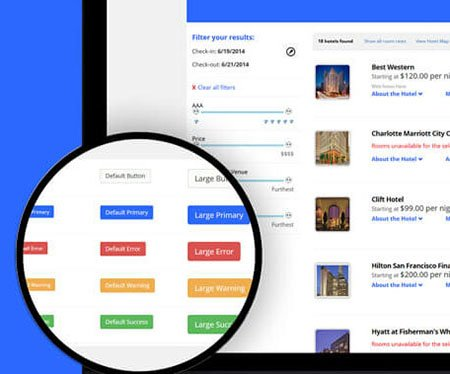
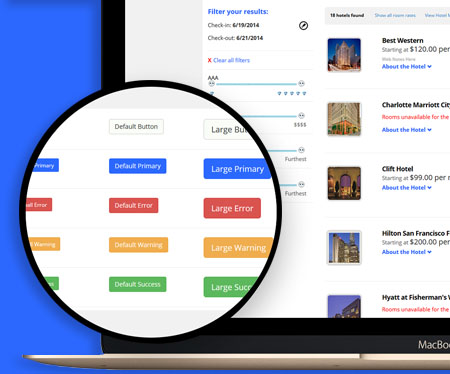
Update About section to Element84 as current workplace

diff --git a/_site/Careers/index.html b/_site/Careers/index.html
@@ -224,17 +224,17 @@
             </div>
             <div class="row justify-content-center">
                 <div class="col-lg-6">
-                    <p>I've been designing for the web for over 6 years, and absolutely love what I do. I believe that good design is a universal solution, not just the flavor of the month.</p>
-                    <p>I currently work at SPARGO, Inc. where I collaborate with a wide array of departments and clients to to get a full understanding of the stakeholder's needs before designing solutions using UI/UX best practices. In addition to the standard design tools like Adobe Creative Suite and Sketch, I also write HTML/CSS and even a little JS on a regular basis in order to provide clickable, and even implementable prototypes and wireframes.</p>
+                    <p>I've been designing for the web for over 7 years, and absolutely love what I do. I believe that good design is a universal solution, not just the flavor of the month.</p>
+                    <p>I currently work as a UX Engineer at <a href="http://element84.com" target="_blank">Element84</a>, where I collaborate with a wide array of departments and clients to to get a full understanding of the stakeholder's needs before designing solutions using UI/UX best practices. In addition to the standard design tools like Adobe Creative Suite and Sketch, I also write HTML, CSS, and JavaScript in order to provide clickable, and even implementable prototypes and wireframes.</p>
                 </div>
                 <div class="col-lg-4">
                     <ul>
-                        <li><strong>HTML, CSS</strong> <span class="badge badge-light">7 years</span></li>
-                        <li><strong>Adobe Suite</strong> <span class="badge badge-light">7 years</span></li>
-                        <li><strong>User-Centered Design</strong> <span class="badge badge-light">3 years</span></li>
+                        <li><strong>HTML, CSS</strong> <span class="badge badge-light">7+ years</span></li>
+                        <li><strong>Adobe Suite</strong> <span class="badge badge-light">7+ years</span></li>
+                        <li><strong>User-Centered Design</strong> <span class="badge badge-light">3.5 years</span></li>
                         <li><strong>JavaScript</strong> <span class="badge badge-light">4 years</span></li>
-                        <li><strong>Rapid Prototyping</strong> <span class="badge badge-light">3 years</span></li>
-                        <li><strong>Sketch</strong> <span class="badge badge-light">1.5 years</span></li>
+                        <li><strong>Rapid Prototyping</strong> <span class="badge badge-light">3.5 years</span></li>
+                        <li><strong>Sketch</strong> <span class="badge badge-light">2 years</span></li>
                     </ul>
                 </div>
                

diff --git a/_site/LifePreserver/index.html b/_site/LifePreserver/index.html
@@ -224,17 +224,17 @@
             </div>
             <div class="row justify-content-center">
                 <div class="col-lg-6">
-                    <p>I've been designing for the web for over 6 years, and absolutely love what I do. I believe that good design is a universal solution, not just the flavor of the month.</p>
-                    <p>I currently work at SPARGO, Inc. where I collaborate with a wide array of departments and clients to to get a full understanding of the stakeholder's needs before designing solutions using UI/UX best practices. In addition to the standard design tools like Adobe Creative Suite and Sketch, I also write HTML/CSS and even a little JS on a regular basis in order to provide clickable, and even implementable prototypes and wireframes.</p>
+                    <p>I've been designing for the web for over 7 years, and absolutely love what I do. I believe that good design is a universal solution, not just the flavor of the month.</p>
+                    <p>I currently work as a UX Engineer at <a href="http://element84.com" target="_blank">Element84</a>, where I collaborate with a wide array of departments and clients to to get a full understanding of the stakeholder's needs before designing solutions using UI/UX best practices. In addition to the standard design tools like Adobe Creative Suite and Sketch, I also write HTML, CSS, and JavaScript in order to provide clickable, and even implementable prototypes and wireframes.</p>
                 </div>
                 <div class="col-lg-4">
                     <ul>
-                        <li><strong>HTML, CSS</strong> <span class="badge badge-light">7 years</span></li>
-                        <li><strong>Adobe Suite</strong> <span class="badge badge-light">7 years</span></li>
-                        <li><strong>User-Centered Design</strong> <span class="badge badge-light">3 years</span></li>
+                        <li><strong>HTML, CSS</strong> <span class="badge badge-light">7+ years</span></li>
+                        <li><strong>Adobe Suite</strong> <span class="badge badge-light">7+ years</span></li>
+                        <li><strong>User-Centered Design</strong> <span class="badge badge-light">3.5 years</span></li>
                         <li><strong>JavaScript</strong> <span class="badge badge-light">4 years</span></li>
-                        <li><strong>Rapid Prototyping</strong> <span class="badge badge-light">3 years</span></li>
-                        <li><strong>Sketch</strong> <span class="badge badge-light">1.5 years</span></li>
+                        <li><strong>Rapid Prototyping</strong> <span class="badge badge-light">3.5 years</span></li>
+                        <li><strong>Sketch</strong> <span class="badge badge-light">2 years</span></li>
                     </ul>
                 </div>
                

diff --git a/_site/SPARGOFeatures/index.html b/_site/SPARGOFeatures/index.html
@@ -224,17 +224,17 @@
             </div>
             <div class="row justify-content-center">
                 <div class="col-lg-6">
-                    <p>I've been designing for the web for over 6 years, and absolutely love what I do. I believe that good design is a universal solution, not just the flavor of the month.</p>
-                    <p>I currently work at SPARGO, Inc. where I collaborate with a wide array of departments and clients to to get a full understanding of the stakeholder's needs before designing solutions using UI/UX best practices. In addition to the standard design tools like Adobe Creative Suite and Sketch, I also write HTML/CSS and even a little JS on a regular basis in order to provide clickable, and even implementable prototypes and wireframes.</p>
+                    <p>I've been designing for the web for over 7 years, and absolutely love what I do. I believe that good design is a universal solution, not just the flavor of the month.</p>
+                    <p>I currently work as a UX Engineer at <a href="http://element84.com" target="_blank">Element84</a>, where I collaborate with a wide array of departments and clients to to get a full understanding of the stakeholder's needs before designing solutions using UI/UX best practices. In addition to the standard design tools like Adobe Creative Suite and Sketch, I also write HTML, CSS, and JavaScript in order to provide clickable, and even implementable prototypes and wireframes.</p>
                 </div>
                 <div class="col-lg-4">
                     <ul>
-                        <li><strong>HTML, CSS</strong> <span class="badge badge-light">7 years</span></li>
-                        <li><strong>Adobe Suite</strong> <span class="badge badge-light">7 years</span></li>
-                        <li><strong>User-Centered Design</strong> <span class="badge badge-light">3 years</span></li>
+                        <li><strong>HTML, CSS</strong> <span class="badge badge-light">7+ years</span></li>
+                        <li><strong>Adobe Suite</strong> <span class="badge badge-light">7+ years</span></li>
+                        <li><strong>User-Centered Design</strong> <span class="badge badge-light">3.5 years</span></li>
                         <li><strong>JavaScript</strong> <span class="badge badge-light">4 years</span></li>
-                        <li><strong>Rapid Prototyping</strong> <span class="badge badge-light">3 years</span></li>
-                        <li><strong>Sketch</strong> <span class="badge badge-light">1.5 years</span></li>
+                        <li><strong>Rapid Prototyping</strong> <span class="badge badge-light">3.5 years</span></li>
+                        <li><strong>Sketch</strong> <span class="badge badge-light">2 years</span></li>
                     </ul>
                 </div>
                

diff --git a/_site/SpargoInc/index.html b/_site/SpargoInc/index.html
@@ -224,17 +224,17 @@
             </div>
             <div class="row justify-content-center">
                 <div class="col-lg-6">
-                    <p>I've been designing for the web for over 6 years, and absolutely love what I do. I believe that good design is a universal solution, not just the flavor of the month.</p>
-                    <p>I currently work at SPARGO, Inc. where I collaborate with a wide array of departments and clients to to get a full understanding of the stakeholder's needs before designing solutions using UI/UX best practices. In addition to the standard design tools like Adobe Creative Suite and Sketch, I also write HTML/CSS and even a little JS on a regular basis in order to provide clickable, and even implementable prototypes and wireframes.</p>
+                    <p>I've been designing for the web for over 7 years, and absolutely love what I do. I believe that good design is a universal solution, not just the flavor of the month.</p>
+                    <p>I currently work as a UX Engineer at <a href="http://element84.com" target="_blank">Element84</a>, where I collaborate with a wide array of departments and clients to to get a full understanding of the stakeholder's needs before designing solutions using UI/UX best practices. In addition to the standard design tools like Adobe Creative Suite and Sketch, I also write HTML, CSS, and JavaScript in order to provide clickable, and even implementable prototypes and wireframes.</p>
                 </div>
                 <div class="col-lg-4">
                     <ul>
-                        <li><strong>HTML, CSS</strong> <span class="badge badge-light">7 years</span></li>
-                        <li><strong>Adobe Suite</strong> <span class="badge badge-light">7 years</span></li>
-                        <li><strong>User-Centered Design</strong> <span class="badge badge-light">3 years</span></li>
+                        <li><strong>HTML, CSS</strong> <span class="badge badge-light">7+ years</span></li>
+                        <li><strong>Adobe Suite</strong> <span class="badge badge-light">7+ years</span></li>
+                        <li><strong>User-Centered Design</strong> <span class="badge badge-light">3.5 years</span></li>
                         <li><strong>JavaScript</strong> <span class="badge badge-light">4 years</span></li>
-                        <li><strong>Rapid Prototyping</strong> <span class="badge badge-light">3 years</span></li>
-                        <li><strong>Sketch</strong> <span class="badge badge-light">1.5 years</span></li>
+                        <li><strong>Rapid Prototyping</strong> <span class="badge badge-light">3.5 years</span></li>
+                        <li><strong>Sketch</strong> <span class="badge badge-light">2 years</span></li>
                     </ul>
                 </div>
                

diff --git a/_site/StyleGuide/index.html b/_site/StyleGuide/index.html
@@ -224,17 +224,17 @@
             </div>
             <div class="row justify-content-center">
                 <div class="col-lg-6">
-                    <p>I've been designing for the web for over 6 years, and absolutely love what I do. I believe that good design is a universal solution, not just the flavor of the month.</p>
-                    <p>I currently work at SPARGO, Inc. where I collaborate with a wide array of departments and clients to to get a full understanding of the stakeholder's needs before designing solutions using UI/UX best practices. In addition to the standard design tools like Adobe Creative Suite and Sketch, I also write HTML/CSS and even a little JS on a regular basis in order to provide clickable, and even implementable prototypes and wireframes.</p>
+                    <p>I've been designing for the web for over 7 years, and absolutely love what I do. I believe that good design is a universal solution, not just the flavor of the month.</p>
+                    <p>I currently work as a UX Engineer at <a href="http://element84.com" target="_blank">Element84</a>, where I collaborate with a wide array of departments and clients to to get a full understanding of the stakeholder's needs before designing solutions using UI/UX best practices. In addition to the standard design tools like Adobe Creative Suite and Sketch, I also write HTML, CSS, and JavaScript in order to provide clickable, and even implementable prototypes and wireframes.</p>
                 </div>
                 <div class="col-lg-4">
                     <ul>
-                        <li><strong>HTML, CSS</strong> <span class="badge badge-light">7 years</span></li>
-                        <li><strong>Adobe Suite</strong> <span class="badge badge-light">7 years</span></li>
-                        <li><strong>User-Centered Design</strong> <span class="badge badge-light">3 years</span></li>
+                        <li><strong>HTML, CSS</strong> <span class="badge badge-light">7+ years</span></li>
+                        <li><strong>Adobe Suite</strong> <span class="badge badge-light">7+ years</span></li>
+                        <li><strong>User-Centered Design</strong> <span class="badge badge-light">3.5 years</span></li>
                         <li><strong>JavaScript</strong> <span class="badge badge-light">4 years</span></li>
-                        <li><strong>Rapid Prototyping</strong> <span class="badge badge-light">3 years</span></li>
-                        <li><strong>Sketch</strong> <span class="badge badge-light">1.5 years</span></li>
+                        <li><strong>Rapid Prototyping</strong> <span class="badge badge-light">3.5 years</span></li>
+                        <li><strong>Sketch</strong> <span class="badge badge-light">2 years</span></li>
                     </ul>
                 </div>
                

diff --git a/_site/index.html b/_site/index.html
@@ -224,17 +224,17 @@
             </div>
             <div class="row justify-content-center">
                 <div class="col-lg-6">
-                    <p>I've been designing for the web for over 6 years, and absolutely love what I do. I believe that good design is a universal solution, not just the flavor of the month.</p>
-                    <p>I currently work at SPARGO, Inc. where I collaborate with a wide array of departments and clients to to get a full understanding of the stakeholder's needs before designing solutions using UI/UX best practices. In addition to the standard design tools like Adobe Creative Suite and Sketch, I also write HTML/CSS and even a little JS on a regular basis in order to provide clickable, and even implementable prototypes and wireframes.</p>
+                    <p>I've been designing for the web for over 7 years, and absolutely love what I do. I believe that good design is a universal solution, not just the flavor of the month.</p>
+                    <p>I currently work as a UX Engineer at <a href="http://element84.com" target="_blank">Element84</a>, where I collaborate with a wide array of departments and clients to to get a full understanding of the stakeholder's needs before designing solutions using UI/UX best practices. In addition to the standard design tools like Adobe Creative Suite and Sketch, I also write HTML, CSS, and JavaScript in order to provide clickable, and even implementable prototypes and wireframes.</p>
                 </div>
                 <div class="col-lg-4">
                     <ul>
-                        <li><strong>HTML, CSS</strong> <span class="badge badge-light">7 years</span></li>
-                        <li><strong>Adobe Suite</strong> <span class="badge badge-light">7 years</span></li>
-                        <li><strong>User-Centered Design</strong> <span class="badge badge-light">3 years</span></li>
+                        <li><strong>HTML, CSS</strong> <span class="badge badge-light">7+ years</span></li>
+                        <li><strong>Adobe Suite</strong> <span class="badge badge-light">7+ years</span></li>
+                        <li><strong>User-Centered Design</strong> <span class="badge badge-light">3.5 years</span></li>
                         <li><strong>JavaScript</strong> <span class="badge badge-light">4 years</span></li>
-                        <li><strong>Rapid Prototyping</strong> <span class="badge badge-light">3 years</span></li>
-                        <li><strong>Sketch</strong> <span class="badge badge-light">1.5 years</span></li>
+                        <li><strong>Rapid Prototyping</strong> <span class="badge badge-light">3.5 years</span></li>
+                        <li><strong>Sketch</strong> <span class="badge badge-light">2 years</span></li>
                     </ul>
                 </div>
                

diff --git a/_site/registration/index.html b/_site/registration/index.html
@@ -224,17 +224,17 @@
             </div>
             <div class="row justify-content-center">
                 <div class="col-lg-6">
-                    <p>I've been designing for the web for over 6 years, and absolutely love what I do. I believe that good design is a universal solution, not just the flavor of the month.</p>
-                    <p>I currently work at SPARGO, Inc. where I collaborate with a wide array of departments and clients to to get a full understanding of the stakeholder's needs before designing solutions using UI/UX best practices. In addition to the standard design tools like Adobe Creative Suite and Sketch, I also write HTML/CSS and even a little JS on a regular basis in order to provide clickable, and even implementable prototypes and wireframes.</p>
+                    <p>I've been designing for the web for over 7 years, and absolutely love what I do. I believe that good design is a universal solution, not just the flavor of the month.</p>
+                    <p>I currently work as a UX Engineer at <a href="http://element84.com" target="_blank">Element84</a>, where I collaborate with a wide array of departments and clients to to get a full understanding of the stakeholder's needs before designing solutions using UI/UX best practices. In addition to the standard design tools like Adobe Creative Suite and Sketch, I also write HTML, CSS, and JavaScript in order to provide clickable, and even implementable prototypes and wireframes.</p>
                 </div>
                 <div class="col-lg-4">
                     <ul>
-                        <li><strong>HTML, CSS</strong> <span class="badge badge-light">7 years</span></li>
-                        <li><strong>Adobe Suite</strong> <span class="badge badge-light">7 years</span></li>
-                        <li><strong>User-Centered Design</strong> <span class="badge badge-light">3 years</span></li>
+                        <li><strong>HTML, CSS</strong> <span class="badge badge-light">7+ years</span></li>
+                        <li><strong>Adobe Suite</strong> <span class="badge badge-light">7+ years</span></li>
+                        <li><strong>User-Centered Design</strong> <span class="badge badge-light">3.5 years</span></li>
                         <li><strong>JavaScript</strong> <span class="badge badge-light">4 years</span></li>
-                        <li><strong>Rapid Prototyping</strong> <span class="badge badge-light">3 years</span></li>
-                        <li><strong>Sketch</strong> <span class="badge badge-light">1.5 years</span></li>
+                        <li><strong>Rapid Prototyping</strong> <span class="badge badge-light">3.5 years</span></li>
+                        <li><strong>Sketch</strong> <span class="badge badge-light">2 years</span></li>
                     </ul>
                 </div>
                

diff --git a/_includes/about.html b/_includes/about.html
@@ -9,17 +9,17 @@
             </div>
             <div class="row justify-content-center">
                 <div class="col-lg-6">
-                    <p>I've been designing for the web for over 6 years, and absolutely love what I do. I believe that good design is a universal solution, not just the flavor of the month.</p>
-                    <p>I currently work at SPARGO, Inc. where I collaborate with a wide array of departments and clients to to get a full understanding of the stakeholder's needs before designing solutions using UI/UX best practices. In addition to the standard design tools like Adobe Creative Suite and Sketch, I also write HTML/CSS and even a little JS on a regular basis in order to provide clickable, and even implementable prototypes and wireframes.</p>
+                    <p>I've been designing for the web for over 7 years, and absolutely love what I do. I believe that good design is a universal solution, not just the flavor of the month.</p>
+                    <p>I currently work as a UX Engineer at <a href="http://element84.com" target="_blank">Element84</a>, where I collaborate with a wide array of departments and clients to to get a full understanding of the stakeholder's needs before designing solutions using UI/UX best practices. In addition to the standard design tools like Adobe Creative Suite and Sketch, I also write HTML, CSS, and JavaScript in order to provide clickable, and even implementable prototypes and wireframes.</p>
                 </div>
                 <div class="col-lg-4">
                     <ul>
-                        <li><strong>HTML, CSS</strong> <span class="badge badge-light">7 years</span></li>
-                        <li><strong>Adobe Suite</strong> <span class="badge badge-light">7 years</span></li>
-                        <li><strong>User-Centered Design</strong> <span class="badge badge-light">3 years</span></li>
+                        <li><strong>HTML, CSS</strong> <span class="badge badge-light">7+ years</span></li>
+                        <li><strong>Adobe Suite</strong> <span class="badge badge-light">7+ years</span></li>
+                        <li><strong>User-Centered Design</strong> <span class="badge badge-light">3.5 years</span></li>
                         <li><strong>JavaScript</strong> <span class="badge badge-light">4 years</span></li>
-                        <li><strong>Rapid Prototyping</strong> <span class="badge badge-light">3 years</span></li>
-                        <li><strong>Sketch</strong> <span class="badge badge-light">1.5 years</span></li>
+                        <li><strong>Rapid Prototyping</strong> <span class="badge badge-light">3.5 years</span></li>
+                        <li><strong>Sketch</strong> <span class="badge badge-light">2 years</span></li>
                     </ul>
                 </div>
                

diff --git a/_includes/css/main.scss b/_includes/css/main.scss
@@ -279,6 +279,11 @@ section.success {
 .success p{
     line-height:2em;
 }
+
+.success a{
+    color:#fff;
+    text-decoration:underline;
+}
 section.success ul{
     list-style-type:none;
     text-align:right;
@@ -414,6 +419,9 @@ ul li .badge{
 #portfolio * {
     z-index: 2;
 }
+.btn{
+    border-radius:.15rem;
+}
 .btn:hover{
     transition:all 0.3s;
 }
@@ -547,6 +555,7 @@ footer .footer-below {
 .scroll-top .btn:focus, .scroll-top .btn:hover {
     outline: 0;
     color:#fff;
+    background:#333;
 }
 
 .portfolio-modal .modal-content {

diff --git a/_site/style.css b/_site/style.css
@@ -279,6 +279,11 @@ section.success {
 .success p{
     line-height:2em;
 }
+
+.success a{
+    color:#fff;
+    text-decoration:underline;
+}
 section.success ul{
     list-style-type:none;
     text-align:right;
@@ -414,6 +419,9 @@ ul li .badge{
 #portfolio * {
     z-index: 2;
 }
+.btn{
+    border-radius:.15rem;
+}
 .btn:hover{
     transition:all 0.3s;
 }
@@ -547,6 +555,7 @@ footer .footer-below {
 .scroll-top .btn:focus, .scroll-top .btn:hover {
     outline: 0;
     color:#fff;
+    background:#333;
 }
 
 .portfolio-modal .modal-content {
